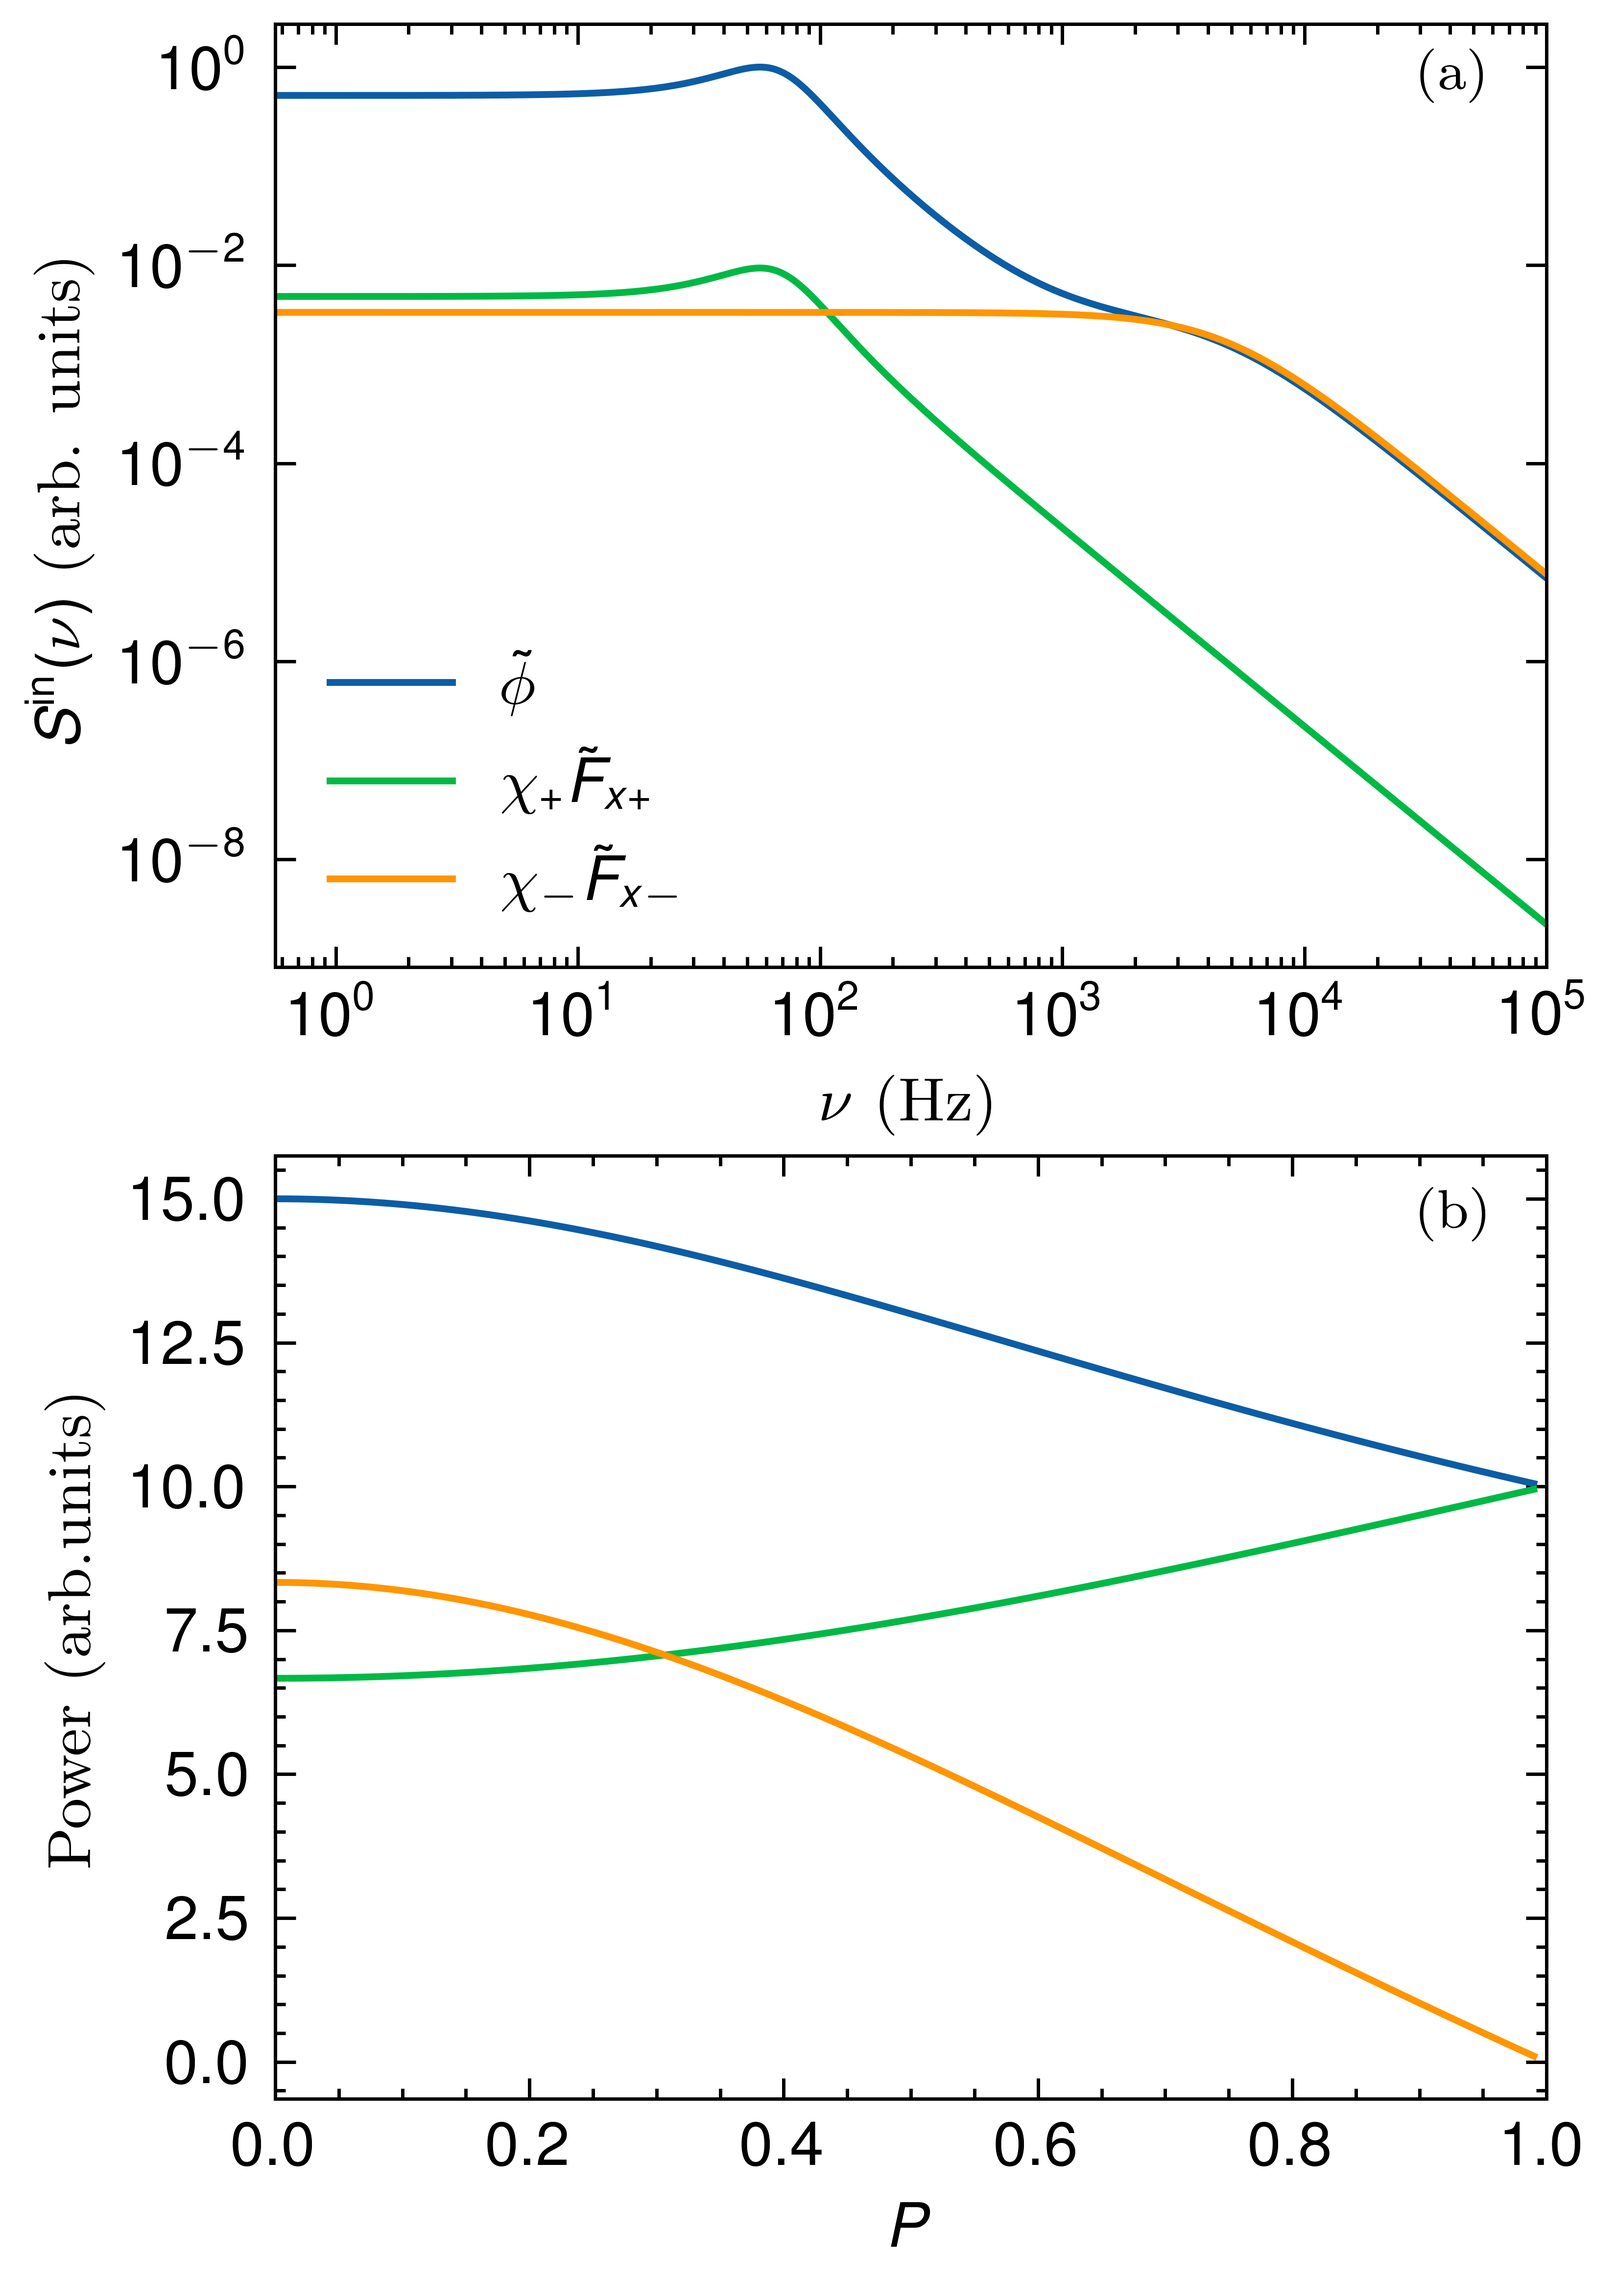
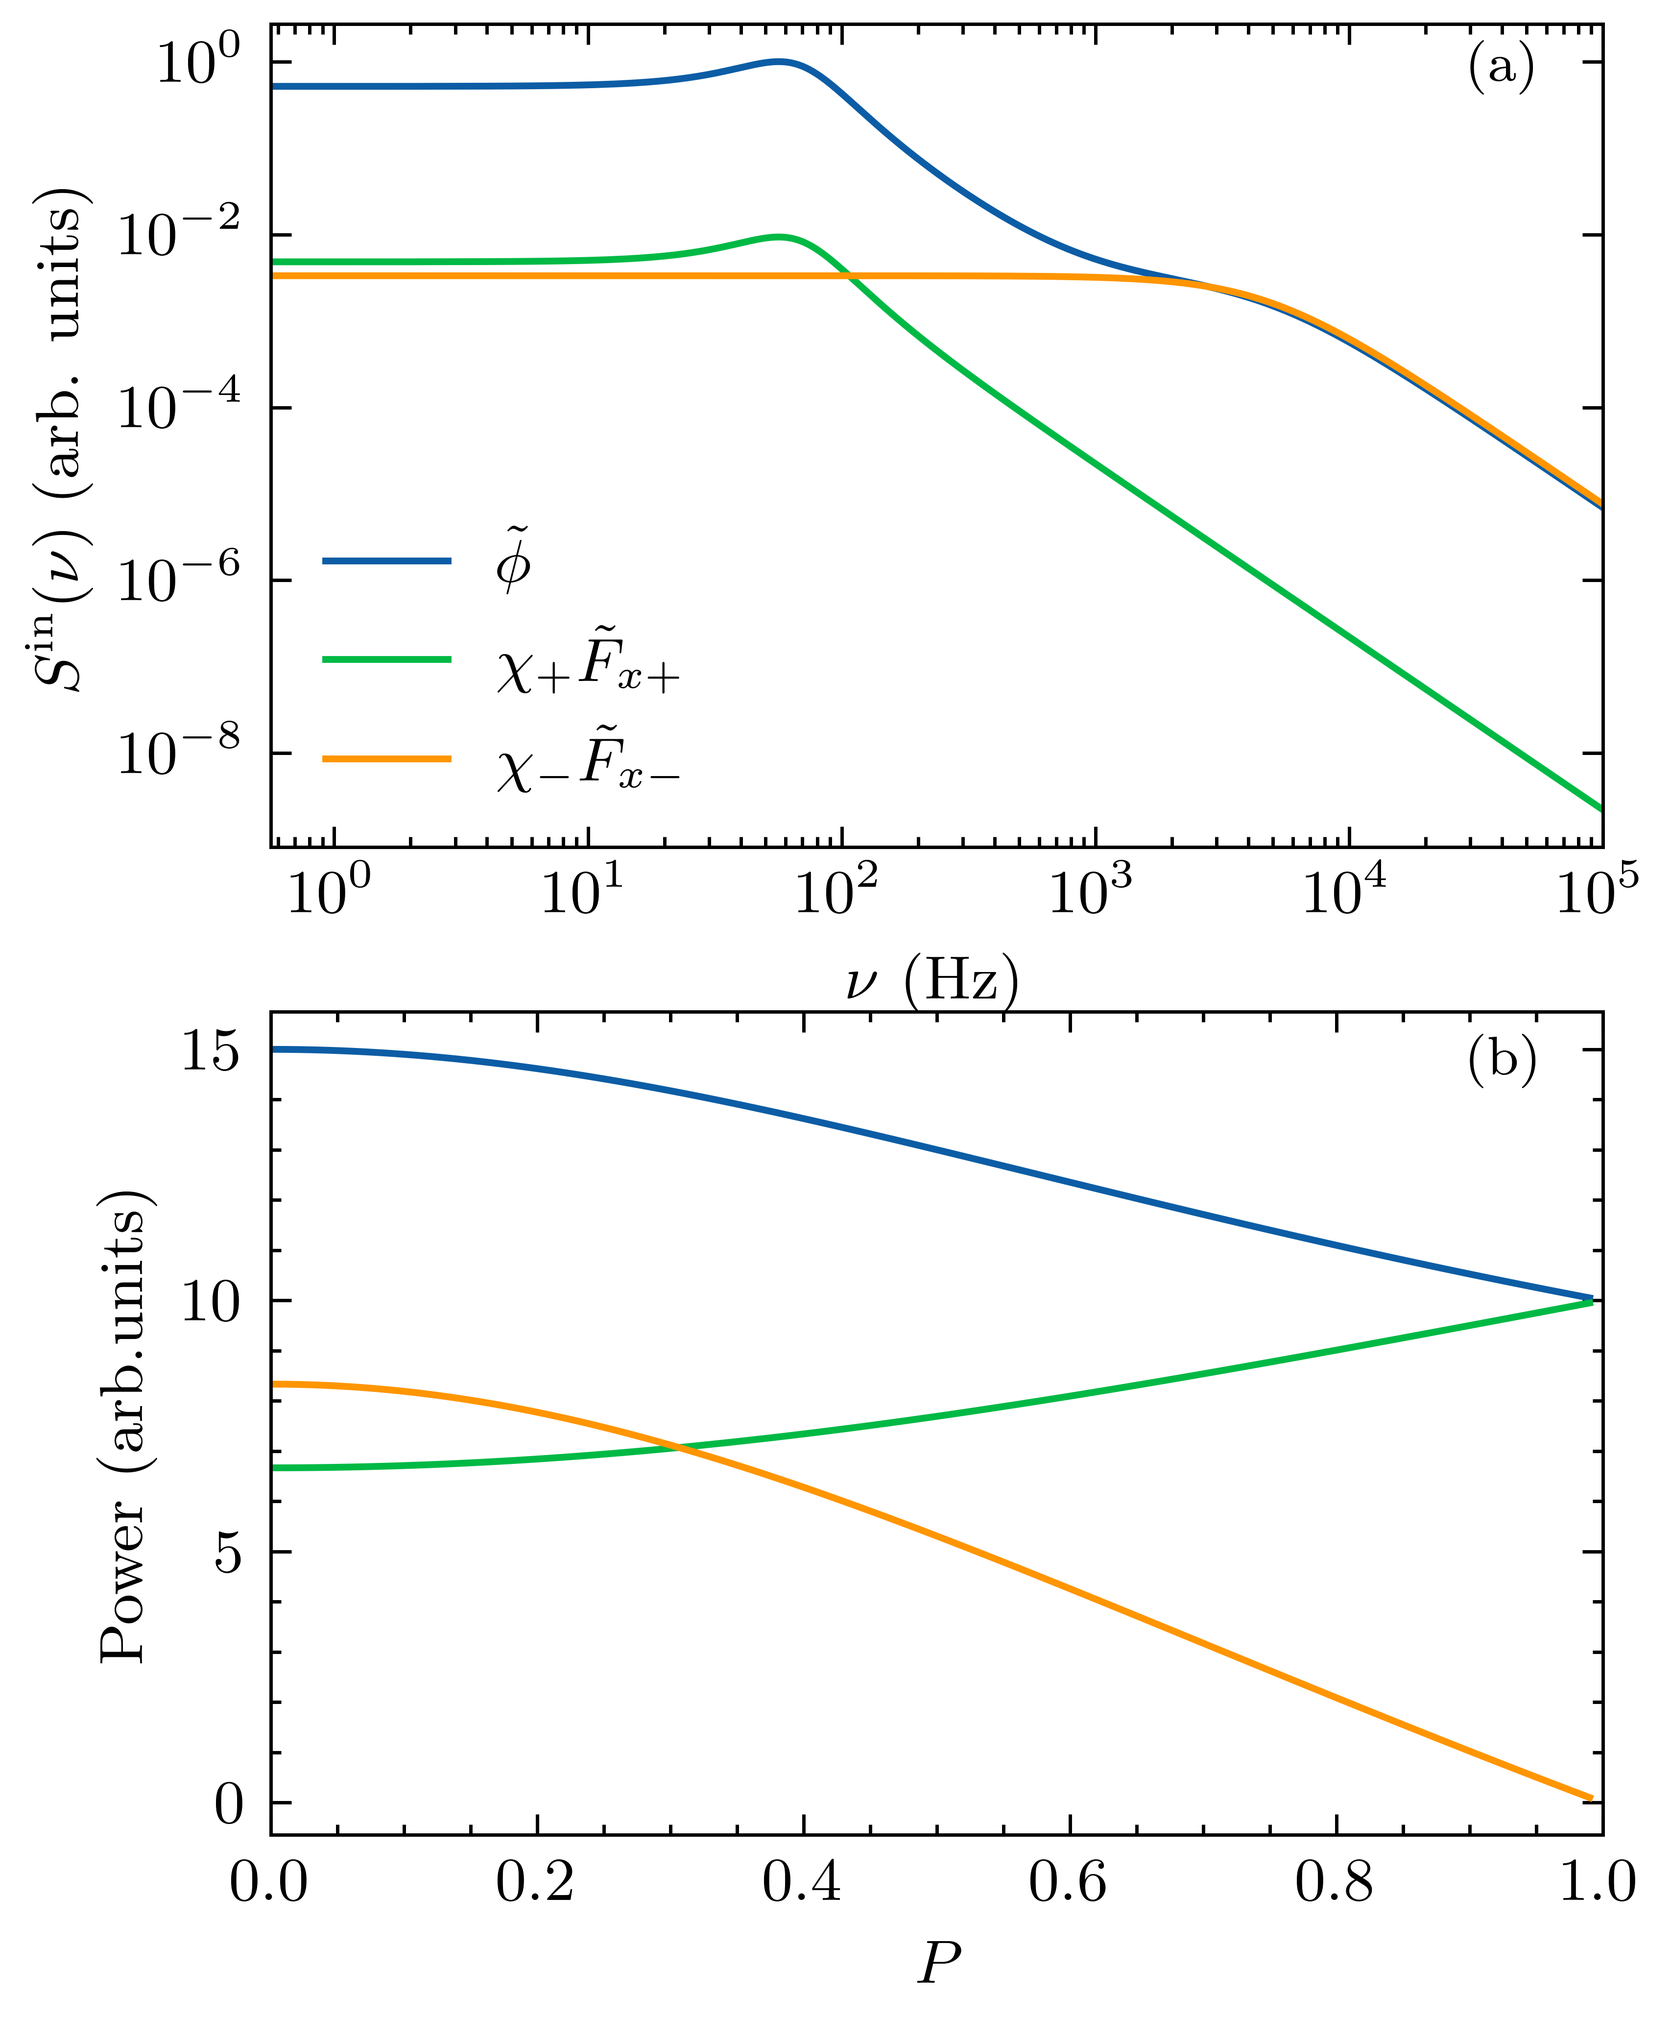
revision3

diff --git a/Noise/Comparison.py b/Noise/Comparison.py
@@ -56,7 +56,7 @@ PSD11,PSD21,revise1=comparison(Rse/100,omega1)
 plt.style.use(['science'])
 with plt.style.context(['science']):
     plt.rc('font',family='Times New Roman')
-    fig = plt.figure(figsize=(3.35, 6))
+    fig = plt.figure(figsize=(3.51, 6.8))
     ax1= fig.add_subplot(313)
     p1,=ax1.plot(omega1, PSD11/np.max(PSD11))
     ax1.plot([], [])
@@ -99,7 +99,12 @@ with plt.style.context(['science']):
     ax3.plot([], [])
     ax3.plot(omega3, PSD23/np.max(PSD13))
 
-    ax3.set_ylabel(' $S^{\mathrm{in}}(\\nu)$ (arb. units)', fontsize=9)
+    # ax3.set_ylabel(' $S^{\mathrm{in}}(\\nu)$ (arb. units)', fontsize=9)
+    # ax2.set_ylabel(' $S^{\mathrm{in}}(\\nu)$ (arb. units)', fontsize=9)
+    # ax1.set_ylabel(' $S^{\mathrm{in}}(\\nu)$ (arb. units)', fontsize=9)
+
+    fig.text(-0.01, 0.5, ' $S^{\mathrm{in}}(\\nu)$ (arb. units)', va='center', rotation='vertical',fontsize='9')
+
     # ax3.set_xlabel('$\\nu$ (kHz)', fontsize=8)
     ax2.legend([p1, p2], ["Ref.[19]","Eq.(63)"], loc='upper right',
                prop={'size': 8})

diff --git a/Noise/Power_of_noise.py b/Noise/Power_of_noise.py
@@ -73,10 +73,10 @@ Lorentziannp = gamman / (gamman**2 + (omega - Omega) ** 2)/2/np.pi
 Lorentziannn = gamman / (gamman**2 + (omega + Omega) ** 2)/2/np.pi
 
 
-plt.style.use(['science','nature'])
-with plt.style.context(['science','nature']):
+plt.style.use(['science'])
+with plt.style.context(['science']):
     plt.rc('font',family='Times New Roman')
-    fig = plt.figure(figsize=(3.35, 5.5))
+    fig = plt.figure(figsize=(3.51, 4.8))
     ax_1  = fig.add_subplot(211)
     ax_1.loglog(omega, (chim(-100)**2*Fxn2*(Lorentziannp + Lorentziannn)+chip(-100)**2*Fx2*(Lorentzianpp + Lorentzianpn))/np.max((chim(-100)**2*Fxn2*(Lorentziannp + Lorentziannn)+chip(-100)**2*Fx2*(Lorentzianpp + Lorentzianpn))))
     ax_1.loglog(omega, (chip(-100)**2*Fx2*(Lorentzianpp + Lorentzianpn))/np.max((chim(-100)**2*Fxn2*(Lorentziannp + Lorentziannn)+chip(-10)**2*Fx2*(Lorentzianpp + Lorentzianpn))))
